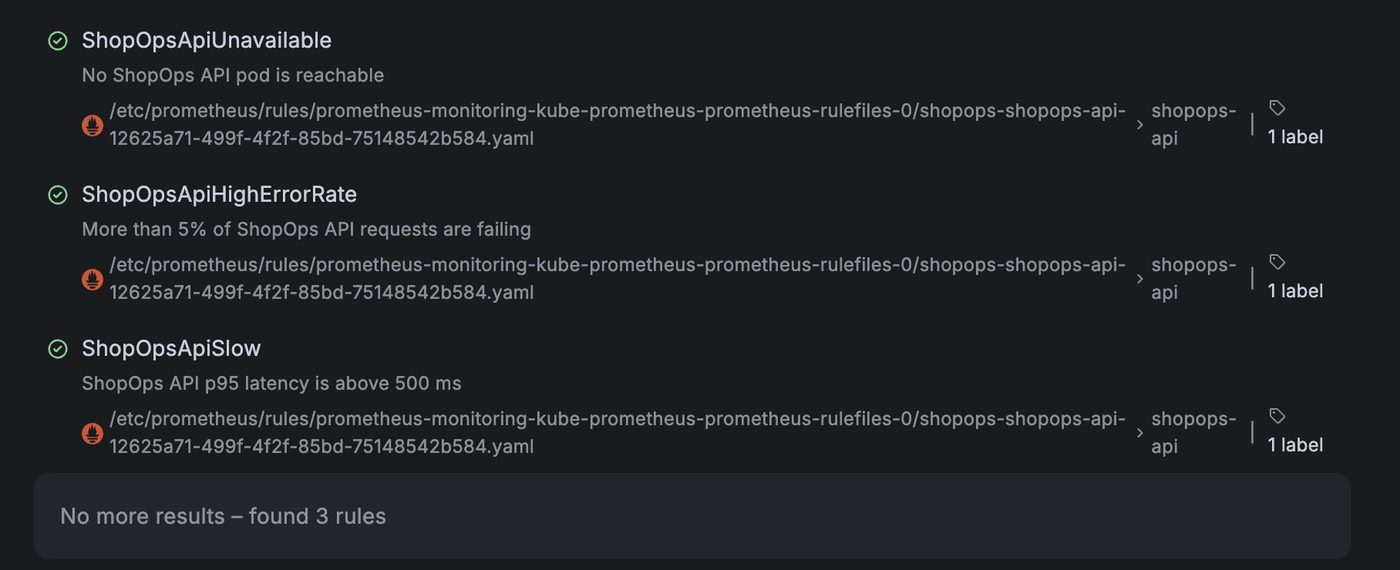
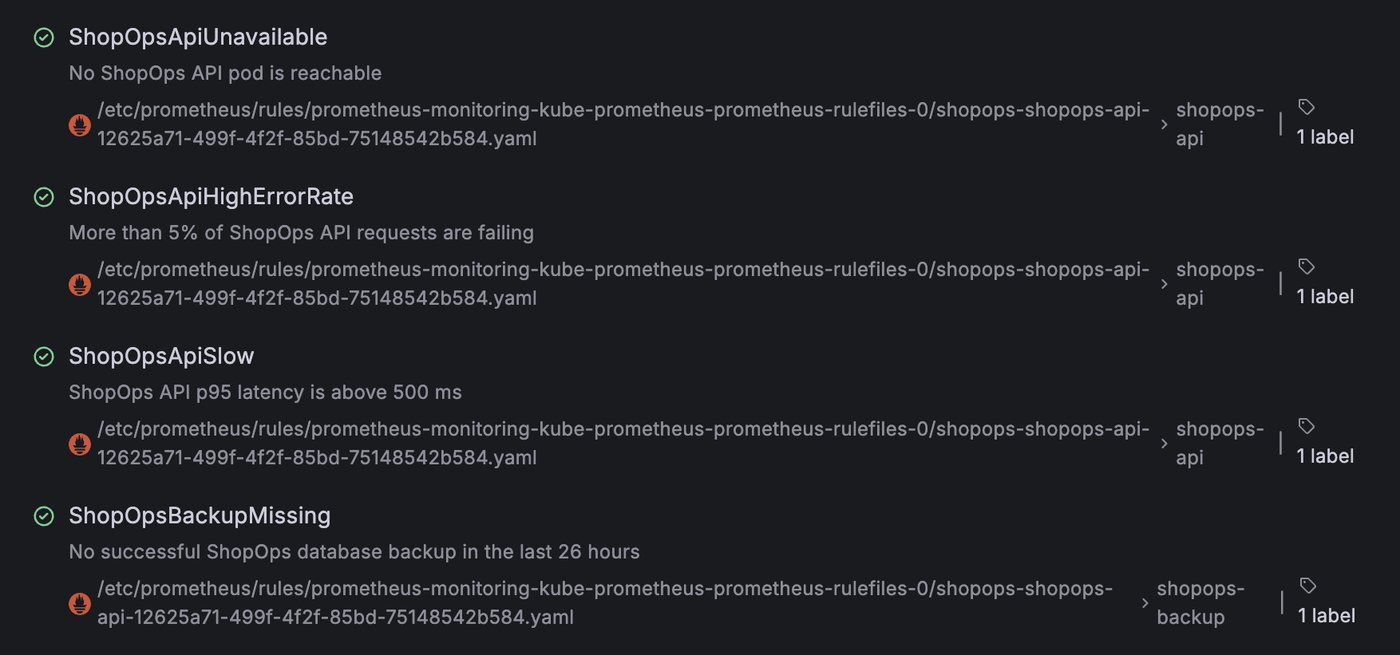
Update ShopOps to phase 7

diff --git a/projects/shopops-platform.html b/projects/shopops-platform.html
@@ -86,7 +86,7 @@
 <li><strong>Rollback:</strong> reverting the commit is the rollback, through the same reviewed path as any other change.</li></ul></section><section id="monitoring" class="reveal"><h2><span class="num">09 / phase 6 — monitoring</span>Phase 6 — Monitoring</h2>
 <p>The API now reports its own health in numbers. I wrote the <code>/metrics</code> endpoint by hand in the Prometheus text format, in under a hundred lines and with no new dependency. The monitoring stack (Prometheus and Grafana, from the kube-prometheus-stack chart) collects it every 30 seconds.</p><div class="feature-grid"><div class="feature"><b>RED metrics</b><span>Rate, errors and duration: requests counted by method, route and status, plus a latency histogram. Memory, CPU and the running version of every pod come with them.</span></div><div class="feature"><b>Few, fixed labels</b><span>Product IDs are grouped under <code>/api/products/:id</code> and health checks are not counted, so the number of time series stays the same however many products exist.</span></div><div class="feature"><b>Monitoring as code</b><span>The scrape target, the alert rules and the dashboard ship inside the Helm chart, so Argo CD deploys them with the app. Nothing is set up by clicking in a UI.</span></div><div class="feature"><b>Three alerts</b><span>API unreachable for 2 minutes · more than 5% of requests failing for 5 minutes · p95 latency above 500 ms for 10 minutes.</span></div><div class="feature"><b>Tested</b><span>Five new tests check the output format, the counting and the route grouping. With the earlier ones that makes eleven, and they now also run inside the image build.</span></div><div class="feature"><b>Light enough for a laptop</b><span>Prometheus keeps two days of data and Alertmanager is off until there is a notification channel, so the whole stack runs next to the app.</span></div></div>
 <figure class="shot"><img src="../assets/shopops/grafana-dashboard.jpg" alt="Grafana dashboard for the ShopOps API with request rate, error rate, p95 latency, running version, requests by route and status code, latency percentiles and the number of API pods" loading="lazy"><figcaption>Grafana: the API dashboard during a test. 0% errors, p95 under 5 ms, and the autoscaler adding a third pod during a burst at 14:03.</figcaption></figure>
-<figure class="shot"><img src="../assets/shopops/alert-rules.jpg" alt="Grafana alert list showing the three ShopOps alert rules, all in the Normal state" loading="lazy"><figcaption>The three alert rules, loaded from the Helm chart, all Normal.</figcaption></figure>
+<figure class="shot"><img src="../assets/shopops/alert-rules.jpg" alt="Grafana alert list showing the four ShopOps alert rules, all in the Normal state" loading="lazy"><figcaption>The alert rules, loaded from the Helm chart, all Normal: the three from this phase and the backup alert added in Phase 7.</figcaption></figure>
 <h3>What the dashboard taught me</h3>
 <p>During that burst the requests graph peaked below 3 per second, yet the autoscaler still added a pod. A two-minute <code>rate()</code> spreads a short burst across the whole window, while the autoscaler checks CPU every 15 seconds. Latency told the same story: at 14:10 the median stayed near 2.5 ms while p99 jumped to 21 ms. Averages hide exactly the moments you need to see.</p></section><section id="hardening" class="reveal"><h2><span class="num">10 / phase 7 — hardening</span>Phase 7 — Hardening</h2>
 <p>Phase 7 closed the gaps a real service cannot live with: data that could be lost for good, a password typed in by hand, traffic in plain text, and no proof of how the system behaves under load.</p><div class="feature-grid"><div class="feature"><b>Backups that are proven</b><span>A CronJob runs <code>pg_dump</code> every day and keeps the newest 7 dumps on their own volume, which Helm and Argo CD are told never to delete. A second, suspended job restores the newest dump into a scratch database and compares row counts. The first run printed <em>RESTORE TEST PASSED</em>.</span></div><div class="feature"><b>Password in Git, encrypted</b><span>With Sealed Secrets the database password lives in Git as ciphertext that only the controller inside the cluster can open, so the whole cluster can be rebuilt from Git. The controller's private key is backed up outside it.</span></div><div class="feature"><b>HTTPS with cert-manager</b><span>cert-manager runs a small local CA and issues and renews the site certificate; plain HTTP only redirects. In the cloud a Let's Encrypt issuer takes the local CA's place and nothing else changes. Checked with <code>curl --cacert</code>, not <code>-k</code>.</span></div><div class="feature"><b>An alert for silent backups</b><span>A fourth alert fires when no backup has succeeded for 26 hours: a backup job that quietly stopped is otherwise only noticed on the day it is needed.</span></div><div class="feature"><b>Load test with a pass/fail line</b><span>k6 plays shoppers browsing and staff changing stock at the same time, up to 55 virtual users. It fails if more than 1% of requests fail or p95 goes above 500 ms, the same line as the latency alert.</span></div><div class="feature"><b>A base image that gets patched fast</b><span>The web image moved to the official nginx image, made non-root with the same few changes nginx-unprivileged makes, after five days of waiting for a patched base image (see below).</span></div></div>

diff --git a/tools/build_cases.py b/tools/build_cases.py
@@ -177,7 +177,7 @@ SHOPOPS = dict(
             ('Light enough for a laptop', 'Prometheus keeps two days of data and Alertmanager is off until there is a notification channel, so the whole stack runs next to the app.'),
         ]) + '''
 <figure class="shot"><img src="../assets/shopops/grafana-dashboard.jpg" alt="Grafana dashboard for the ShopOps API with request rate, error rate, p95 latency, running version, requests by route and status code, latency percentiles and the number of API pods" loading="lazy"><figcaption>Grafana: the API dashboard during a test. 0% errors, p95 under 5 ms, and the autoscaler adding a third pod during a burst at 14:03.</figcaption></figure>
-<figure class="shot"><img src="../assets/shopops/alert-rules.jpg" alt="Grafana alert list showing the three ShopOps alert rules, all in the Normal state" loading="lazy"><figcaption>The three alert rules, loaded from the Helm chart, all Normal.</figcaption></figure>
+<figure class="shot"><img src="../assets/shopops/alert-rules.jpg" alt="Grafana alert list showing the four ShopOps alert rules, all in the Normal state" loading="lazy"><figcaption>The alert rules, loaded from the Helm chart, all Normal: the three from this phase and the backup alert added in Phase 7.</figcaption></figure>
 <h3>What the dashboard taught me</h3>
 <p>During that burst the requests graph peaked below 3 per second, yet the autoscaler still added a pod. A two-minute <code>rate()</code> spreads a short burst across the whole window, while the autoscaler checks CPU every 15 seconds. Latency told the same story: at 14:10 the median stayed near 2.5 ms while p99 jumped to 21 ms. Averages hide exactly the moments you need to see.</p>'''),
         ('hardening', 'Phase 7 — Hardening', '''
